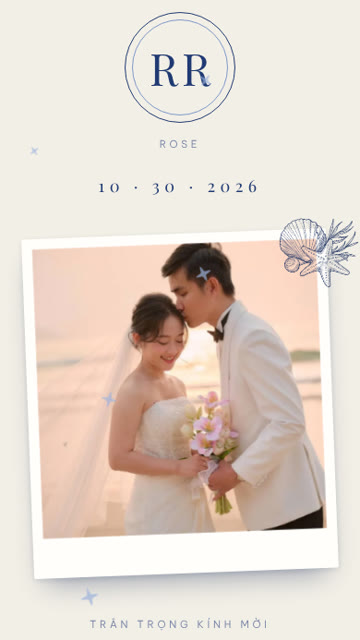
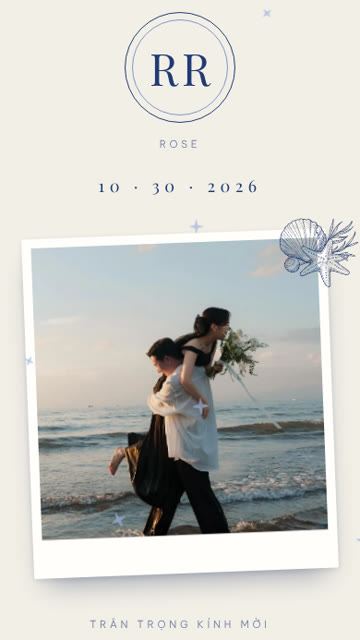
Mẫu 11 (Xanh cổ điển): ảnh cưới ở biển (chủ repo chọn) cho các khung polaroid
Claude-Session: https://claude.ai/code/session_01V4RDDV9jqM6BBijw6Ese9L

diff --git a/my-wed/src/templates/t13/demo-data.ts b/my-wed/src/templates/t13/demo-data.ts
@@ -1,4 +1,9 @@
-import { WeddingData } from "@/core/types";
+import album1 from "@/static/t13/demo/album1.webp";
+import album2 from "@/static/t13/demo/album2.webp";
+import album3 from "@/static/t13/demo/album3.webp";
+import album4 from "@/static/t13/demo/album4.webp";
+import cover from "@/static/t13/demo/cover.webp";
+import { PhotoSlot, WeddingData } from "@/core/types";
 import { demoData as base } from "@/templates/t01/demo-data";
 
 export const demoData: WeddingData = {
@@ -10,4 +15,16 @@ export const demoData: WeddingData = {
   venueAddress: "Số 1 Nhà thờ Lớn, Hoàn Kiếm, Hà Nội",
   venueQuery: "Nhà thờ Lớn Hà Nội",
   dressColors: ["#1f3a73", "#7d97c9", "#f2efe6", "#c7b58a"],
+  // beach photos chosen by the owner; the template has six photo slots, the set has five
+  photos: {
+    ...base.photos,
+    cover: { key: "cover", label: "Ảnh bìa", ratio: "4/5", src: cover },
+    destiny: { key: "destiny", label: "Ảnh cuối thiệp", ratio: "4/5", src: cover },
+  } as Record<string, PhotoSlot>,
+  album: [
+    { key: "album1", label: "Ảnh album 1", ratio: "3/4", src: album1 },
+    { key: "album2", label: "Ảnh album 2", ratio: "3/4", src: album2 },
+    { key: "album3", label: "Ảnh album 3", ratio: "3/4", src: album3 },
+    { key: "album4", label: "Ảnh album 4", ratio: "3/4", src: album4 },
+  ] as PhotoSlot[],
 };

diff --git a/docs/CREDITS.md b/docs/CREDITS.md
@@ -161,3 +161,7 @@ Cảnh lối vào qua các vòm hoa `gate-arches.webp`, chùm bóng bay `balloon
 ## Mẫu 3 · Hoa hồng pastel: ảnh cưới mẫu (`my-wed/src/static/t32/demo/`)
 
 `cover.webp`, `destiny.webp` (có chữ ký studio "Bellure", giữ nguyên) và `album1-4.webp` (cắt từ một ảnh lưới 4 ô): ảnh cưới ngoài trời trời xanh cỏ xanh, chủ repo chọn từ Pinterest (ảnh studio Hàn Quốc), **chưa có giấy phép sử dụng**; chủ repo quyết định dùng làm ảnh minh hoạ. Nếu tác giả yêu cầu gỡ thì thay bằng ảnh có quyền dùng.
+
+## Mẫu 11 · Xanh cổ điển: ảnh cưới mẫu (`my-wed/src/static/t13/demo/`)
+
+`cover.webp` (cũng dùng làm ảnh cuối) và `album1-4.webp` (cắt từ một ảnh lưới 4 ô): ảnh cưới ở biển, chủ repo chọn từ Pinterest, **chưa có giấy phép sử dụng**; chủ repo quyết định dùng làm ảnh minh hoạ. Nếu tác giả yêu cầu gỡ thì thay bằng ảnh có quyền dùng.
